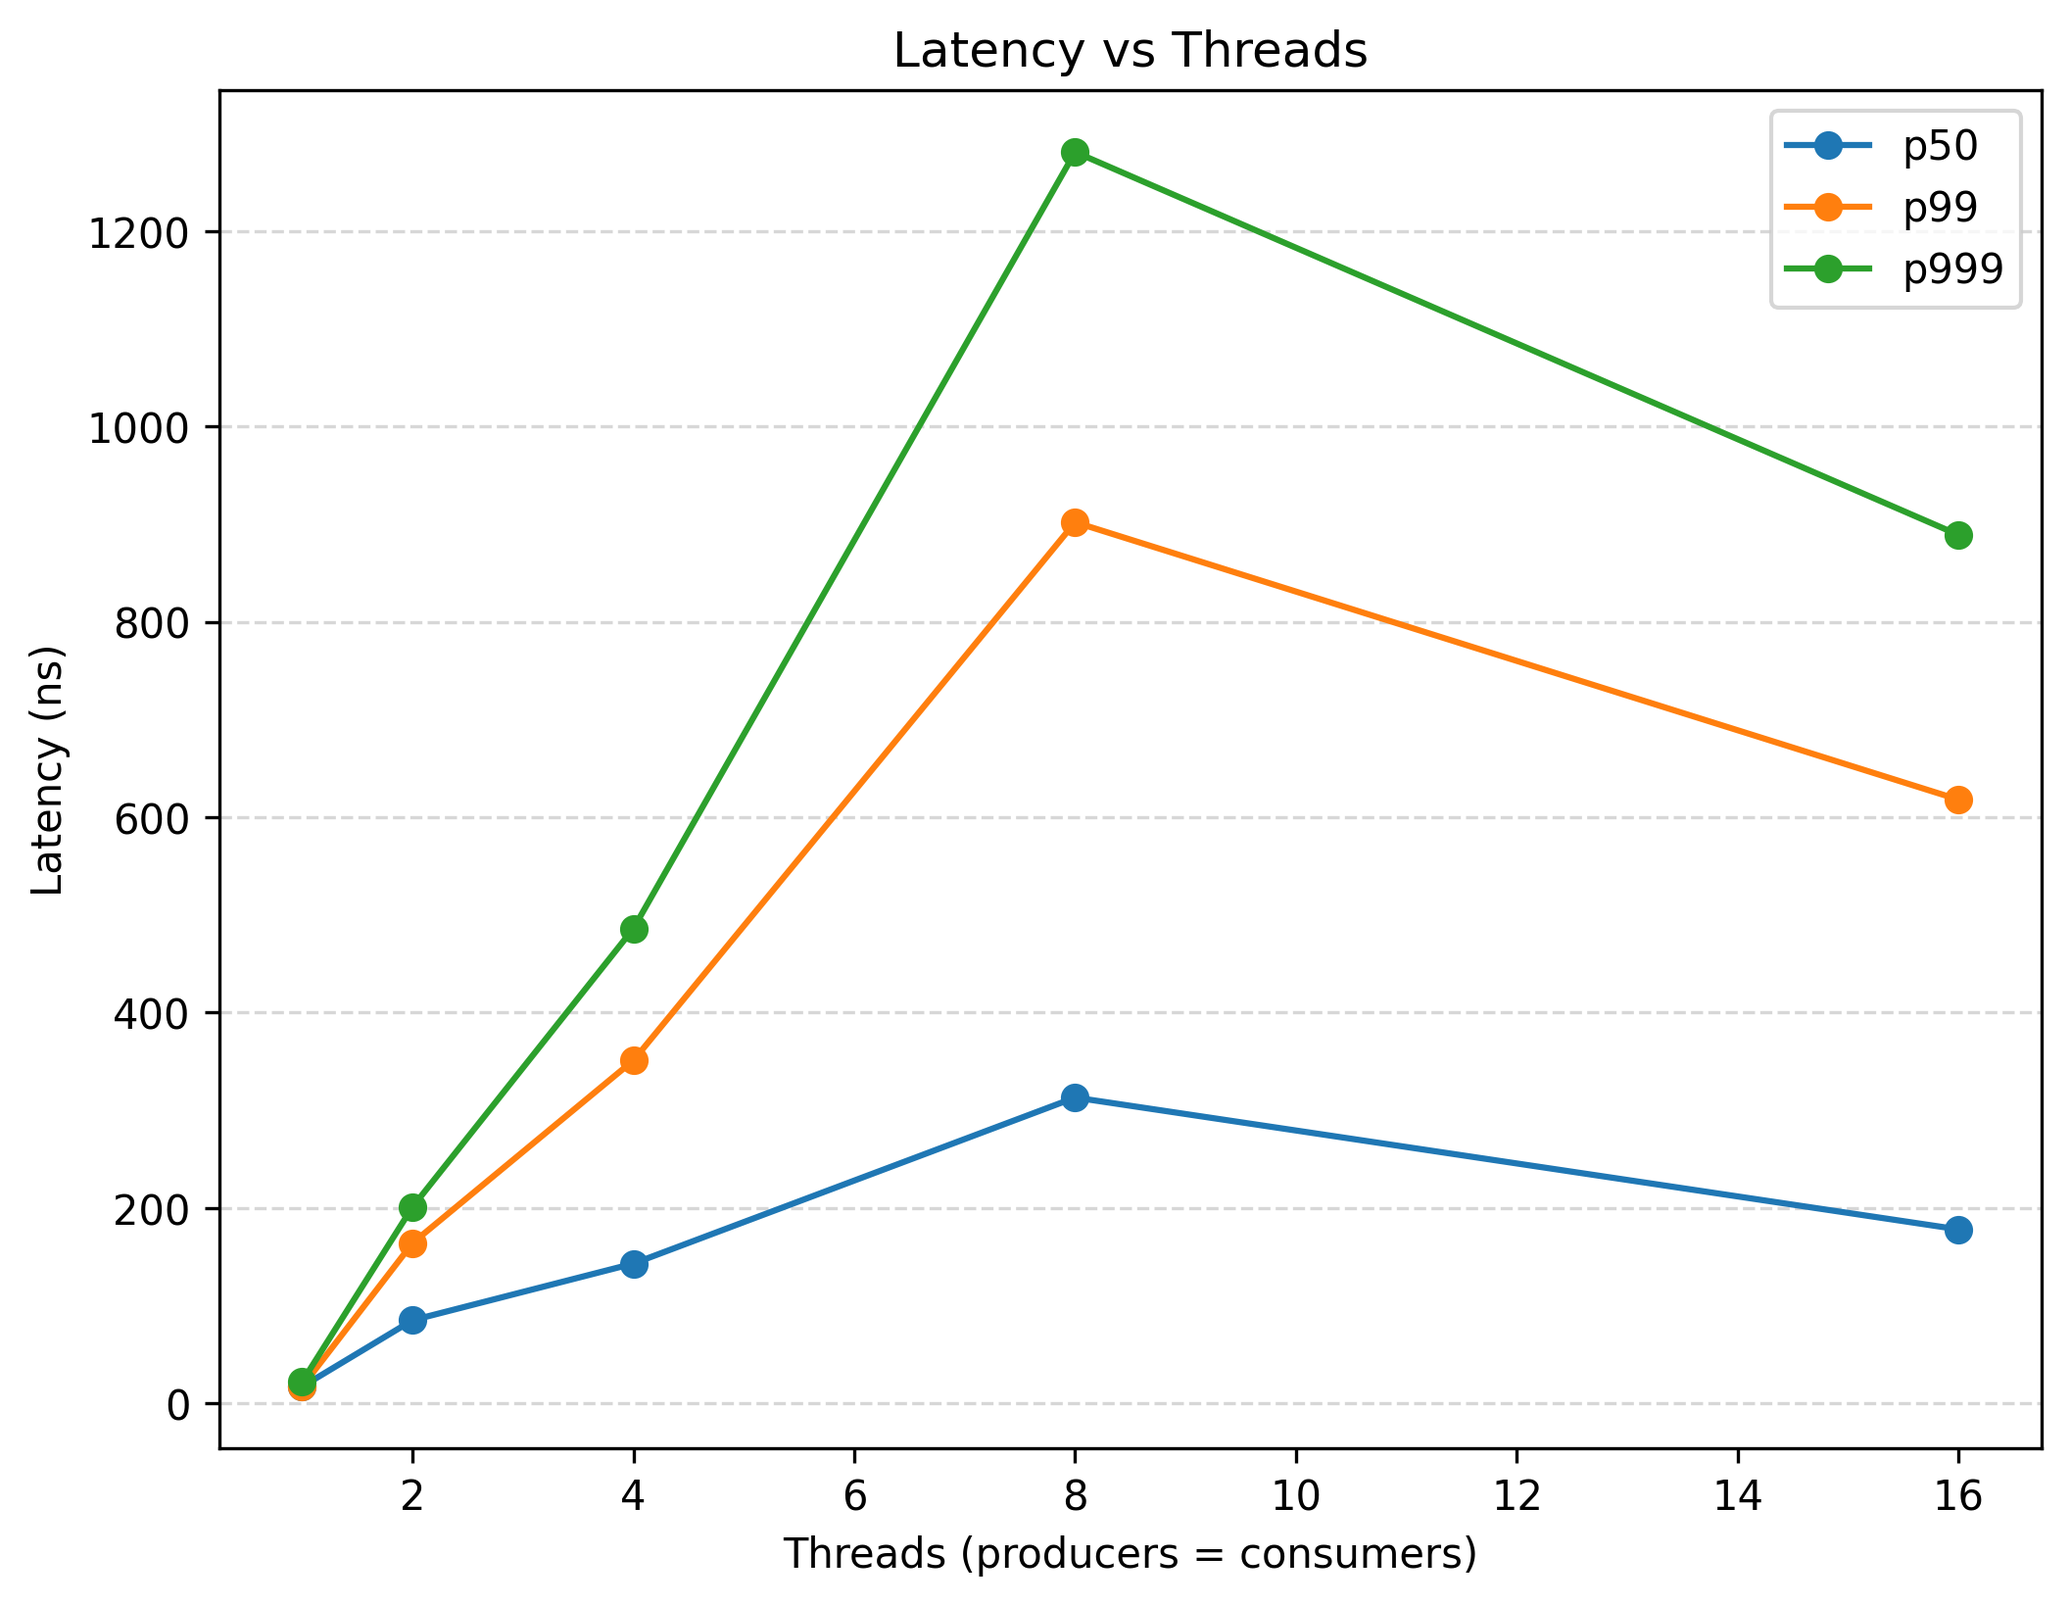
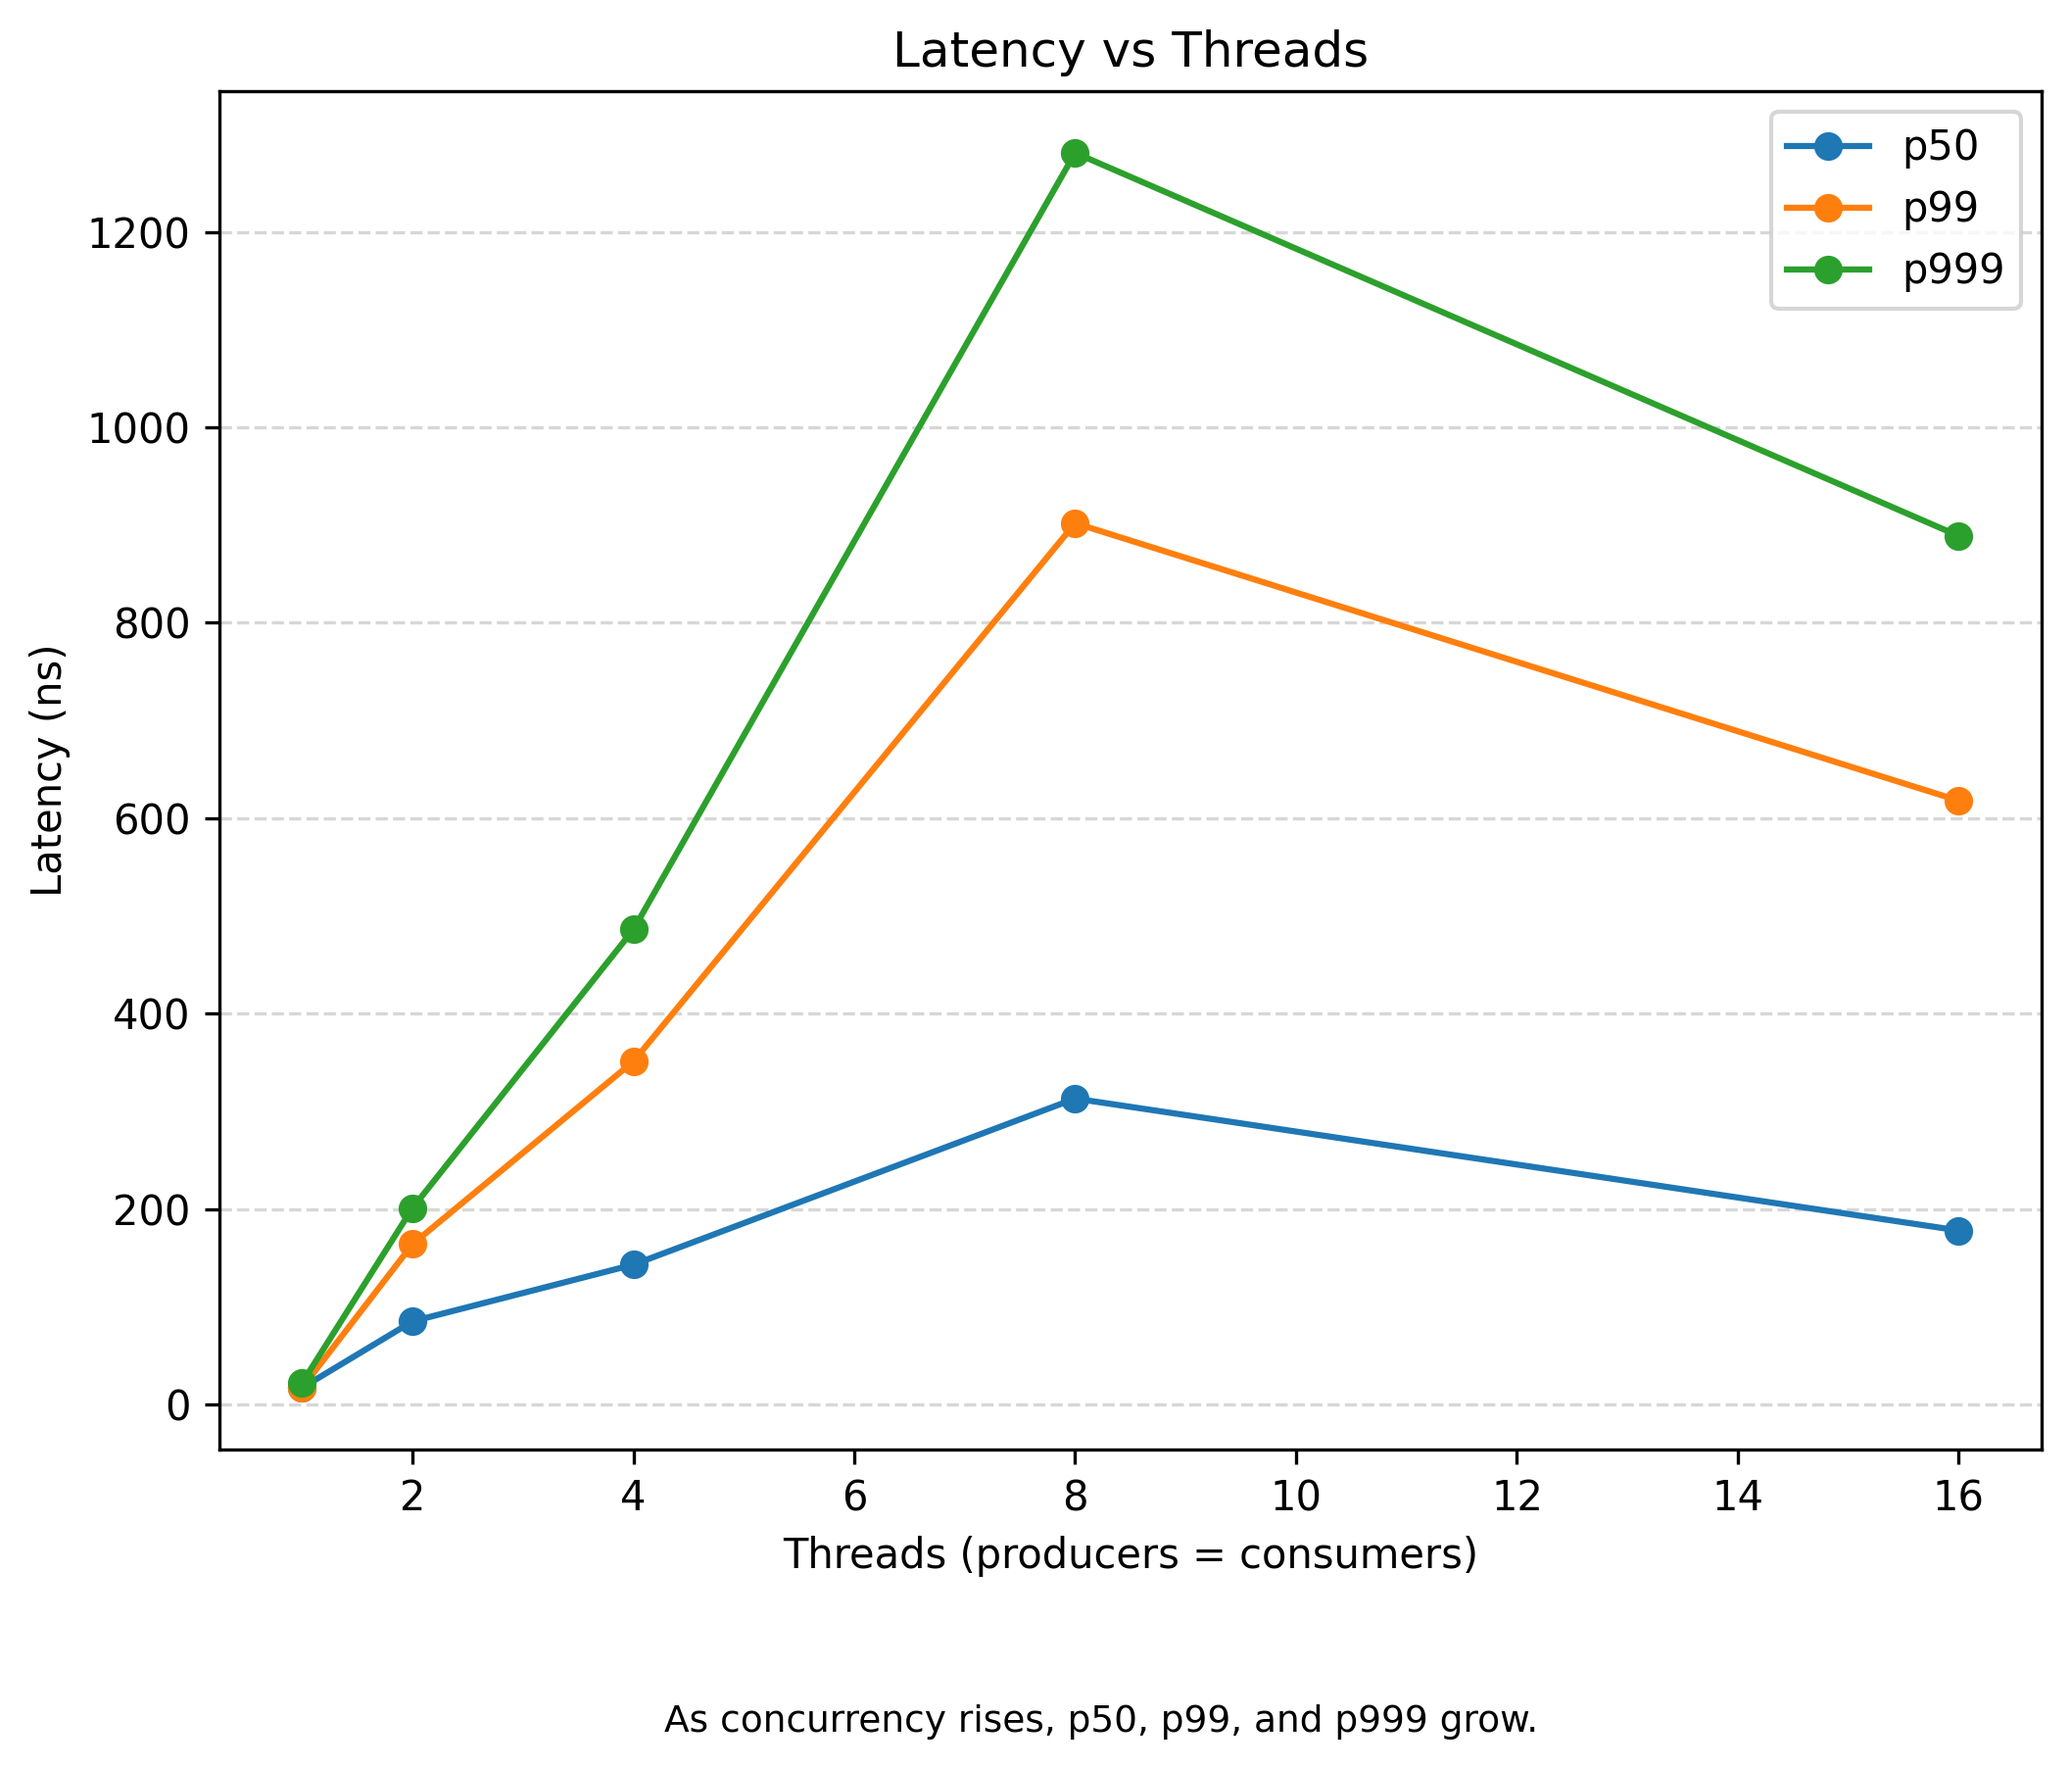
Add captions to figures

diff --git a/scripts/parse_results.py b/scripts/parse_results.py
@@ -40,14 +40,23 @@ def histogram(df):
             histogram.pop()
 
         x = [i * 5 for i in range(len(histogram))]
+        y = [v / 1e6 for v in histogram]
 
         plt.figure(figsize=(8, 6))
-        plt.bar(x, histogram, width=5, align="edge")
+        plt.bar(x, y, width=5, align="edge")
         plt.gca().yaxis.set_major_formatter(StrMethodFormatter("{x:,.0f}"))
         plt.grid(True, axis="y", linestyle="--", alpha=0.5)
         plt.title("Consumer Latency Histogram at 4p4c")
         plt.xlabel("Latency (ns) [bucket width = 5ns]")
-        plt.ylabel("Count")
+        plt.ylabel("Count (millions)")
+
+        for p, color in zip(
+            ["pop_lat_p50_ns", "pop_lat_p99_ns", "pop_lat_p999_ns"],
+            ["green", "orange", "red"]
+        ):
+            label = p.replace("pop_lat_", "").replace("_ns", "")
+            plt.axvline(row[p], color=color, linestyle="--", linewidth=1.5, label=label)
+        plt.legend()
 
         plt.tight_layout()
         plt.savefig("docs/fig/pop_hist.png", dpi=300, bbox_inches="tight")
@@ -67,6 +76,9 @@ def scaling_effect(df):
     threads, p999 = get_avg(df, 'MPMC-vary-threads' ,'consumers', 'pop_lat_p999_ns')
     plt.plot(threads, p999, "-o", label="p999")
     plt.legend()
+    plt.figtext(0.5, -0.05,
+            "As concurrency rises, p50, p99, and p999 grow.",
+            ha="center", fontsize=9)
     plt.savefig("docs/fig/latency_vs_threads.png", dpi=300, bbox_inches="tight")
     plt.close()
 
@@ -93,15 +105,26 @@ def mode_effect(df):
     plt.title("Blocking vs Non-blocking MPMC")
     plt.xlabel("Threads (producers = consumers)")
     plt.ylabel("Throughput (ops/s)")
-    threads, pop_ops_per_sec = get_avg(df, 'MPMC-vary-threads' ,'consumers', 'pop_ops_per_sec')
+
+    # blocking
+    threads, pop_ops_per_sec = get_avg(df, 'MPMC-vary-threads', 'consumers', 'pop_ops_per_sec')
     threads = threads[1:]
-    pop_ops_per_sec = pop_ops_per_sec[1:]
+    pop_ops_per_sec = [v/1e6 for v in pop_ops_per_sec[1:]]  # scale to millions
     plt.plot(threads, pop_ops_per_sec, "-o", label="Blocking throughput")
-    threads, pop_ops_per_sec = get_avg(df, 'MPMC-nonblocking-vary-threads' ,'consumers', 'pop_ops_per_sec')
+
+    # non-blocking
+    threads, pop_ops_per_sec = get_avg(df, 'MPMC-nonblocking-vary-threads', 'consumers', 'pop_ops_per_sec')
     threads = threads[1:]
-    pop_ops_per_sec = pop_ops_per_sec[1:]
+    pop_ops_per_sec = [v/1e6 for v in pop_ops_per_sec[1:]]  # scale to millions
     plt.plot(threads, pop_ops_per_sec, "-o", label="Non-blocking throughput")
+
+    plt.gca().yaxis.set_major_formatter(StrMethodFormatter("{x:.1f}M"))
     plt.legend()
+    plt.figtext(
+        0.5, -0.05,
+        "Blocking calls outperform non-blocking try_* by 2-3x while tightening tail latencies.",
+        ha="center", fontsize=9
+    )
     plt.savefig("docs/fig/mode_comparison.png", dpi=300, bbox_inches="tight")
     plt.close()
 
@@ -138,6 +161,9 @@ def pinning_padding_effect(df):
                      label=label_map[(pinning_on, padding_on)])
 
     plt.legend()
+    plt.figtext(0.5, -0.05,
+            "Pinning and cache-line padding reduce p999 by 15-45% at 4p4c.",
+            ha="center", fontsize=9)
     plt.savefig("docs/fig/latency_vs_pinning_padding.png", dpi=300, bbox_inches="tight")
     plt.close()
 
@@ -174,6 +200,9 @@ def payload_effect(df):
                      label=label_map[(large, move_only)])
 
     plt.legend()
+    plt.figtext(0.5, -0.05,
+            "Large copyable payloads pay for data movement; move-only payloads keep latency close to small POD.",
+            ha="center", fontsize=9)
     plt.savefig("docs/fig/latency_vs_payload.png", dpi=300, bbox_inches="tight")
     plt.close()
 
